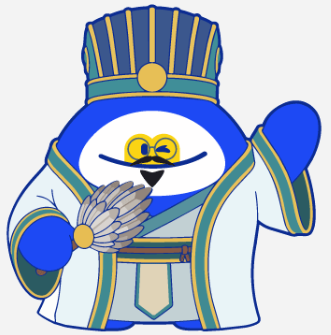
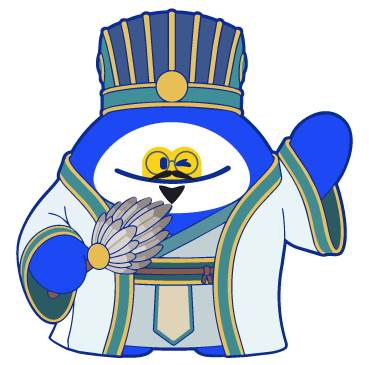
feat: 학습 행동 유형 캐릭터 27종 전체 반영 + 유형명 기획 확정본 동기화
- 「아이글 27가지 학습 행동 유형별 캐릭터」(서비스기획팀 2026-08-26) pptx 에서 27장 추출 → public/images/patterns/{code}.png
- PATTERN_CHARACTERS 27개 코드 전부 매핑 (파일명 = 3축 코드)
- handwritingPatternMatrix 유형명 14건을 pptx 확정명으로 교체
  (bab 표준 정석형 · bba 점검형 확신 풀이 · cbb 신중한 계획형 · acc 성급한 직관/찍기형 등)
- 일괄 과정평가 데모 데이터의 舊 Press 축을 Hesit 축 코드로 정리 (cab · bcb)

Changed region(s): [[0.0, 0.0, 0.997, 1.0], [0.574, 0.3582, 0.6647, 0.4478]]

diff --git a/src/handwritingPatternMatrix.js b/src/handwritingPatternMatrix.js
@@ -12,6 +12,7 @@
  * null 값은 매트릭스 미정의 상태로, UI에서 fallback 규칙 템플릿으로 대체.
  *
  * 참조: handwriting_analysis_spec.md §6.2, 과정평가_prompt.md §5.2
+ * 유형명·캐릭터: 「아이글 27가지 학습 행동 유형별 캐릭터」(서비스기획팀, 2026-08-26) 기준. 캐릭터는 public/images/patterns/{code}.png
  */
 
 export const PATTERN_MATRIX = {
@@ -65,7 +66,7 @@ export const PATTERN_MATRIX = {
     feedback: { High: null, Med: null, Low: null },
   },
   abc: {
-    name: '빠른 흔들림형',
+    name: '불안한 급행 보완형',
     brief: '빠르나 약간의 수정과 잦은 머뭇거림',
     strengths: ['fast_execution'],
     feedback: { High: null, Med: null, Low: null },
@@ -75,19 +76,19 @@ export const PATTERN_MATRIX = {
   // 빠름(a) × 역행(c) — ac*
   // ━━━━━━━━━━━━━━━━━━━━━━━━━━━━━━━━━━━━━━━━━━━
   aca: {
-    name: '빠른 재구성 확신형',
+    name: '산만한 확신형',
     brief: '빠르게 풀며 크게 되돌아가지만 확신 있음',
     strengths: ['fast_execution', 'self_correction'],
     feedback: { High: null, Med: null, Low: null },
   },
   acb: {
-    name: '민첩 대폭수정형',
+    name: '흩어진 속도형',
     brief: '빠르게 풀며 대폭 수정, 자연스러운 흐름',
     strengths: ['fast_execution', 'self_correction'],
     feedback: { High: null, Med: null, Low: null },
   },
   acc: {
-    name: '빠른 혼란형',
+    name: '성급한 직관/찍기형',
     brief: '빠르지만 방향성이 흐트러지고 머뭇거림',
     strengths: ['fast_execution'],
     feedback: { High: null, Med: null, Low: null },
@@ -107,13 +108,13 @@ export const PATTERN_MATRIX = {
     },
   },
   bab: {
-    name: '일관 진행형',
+    name: '표준 정석형',
     brief: '평균적 속도로 순차적이며 자연스러운 흐름',
     strengths: ['sequential_order'],
     feedback: { High: null, Med: null, Low: null },
   },
   bac: {
-    name: '신중 불안형',
+    name: '정석 속 불안형',
     brief: '안정적이나 순차적 진행 중 머뭇거림',
     strengths: ['sequential_order'],
     feedback: { High: null, Med: null, Low: null },
@@ -123,13 +124,13 @@ export const PATTERN_MATRIX = {
   // 보통(b) × 보통(b) — bb*
   // ━━━━━━━━━━━━━━━━━━━━━━━━━━━━━━━━━━━━━━━━━━━
   bba: {
-    name: '차분한 보완형',
+    name: '점검형 확신 풀이',
     brief: '차분한 속도로 필요한 부분 확실히 수정',
     strengths: ['self_correction', 'consistent_flow'],
     feedback: { High: null, Med: null, Low: null },
   },
   bbb: {
-    name: '표준 흐름형',
+    name: '일반 재정비형',
     brief: '평균적 속도·순서·확신도, 무난한 흐름',
     strengths: ['consistent_flow'],
     feedback: { High: null, Med: null, Low: null },
@@ -149,7 +150,7 @@ export const PATTERN_MATRIX = {
   // 보통(b) × 역행(c) — bc*
   // ━━━━━━━━━━━━━━━━━━━━━━━━━━━━━━━━━━━━━━━━━━━
   bca: {
-    name: '능동적 탐색 확신형',
+    name: '능동적 탐색 확신형', // pptx 표기는 「능동적 탐색 확신」— 접미 '형' 누락으로 보고 보정
     brief: '여러 방향을 탐색하며 단호한 흐름으로 해답 도달',
     strengths: ['self_correction'],
     feedback: {
@@ -169,7 +170,7 @@ export const PATTERN_MATRIX = {
     },
   },
   bcc: {
-    name: '혼돈 탐색형',
+    name: '불안한 시행착오형',
     brief: '방향이 흐트러지고 머뭇거림이 잦음',
     strengths: [],
     feedback: { High: null, Med: null, Low: null },
@@ -185,13 +186,13 @@ export const PATTERN_MATRIX = {
     feedback: { High: null, Med: null, Low: null },
   },
   cab: {
-    name: '신중한 재구조화형',
+    name: '신중한 재구조화형', // pptx 표기는 「신중한 재구조화」— 접미 '형' 누락으로 보고 보정
     brief: '천천히 진행하지만 순차적이며 약간의 머뭇거림',
     strengths: ['sequential_order'],
     feedback: { High: null, Med: null, Low: null },
   },
   cac: {
-    name: '조심스러운 탐색형',
+    name: '숙고 정돈 불안형',
     brief: '느리고 순차적이나 잦은 머뭇거림',
     strengths: ['sequential_order'],
     feedback: { High: null, Med: null, Low: null },
@@ -201,20 +202,19 @@ export const PATTERN_MATRIX = {
   // 느림(c) × 보통(b) — cb*
   // ━━━━━━━━━━━━━━━━━━━━━━━━━━━━━━━━━━━━━━━━━━━
   cba: {
-    // [2026-09-21] 기획 확정명 「심사숙고 확신형」 (舊 신중한 보완 확신형). 유형 캐릭터 public/images/patterns/cba.png
     name: '심사숙고 확신형',
     brief: '느리게 진행하며 되돌아가지만 단단히 마무리',
     strengths: ['self_correction'],
     feedback: { High: null, Med: null, Low: null },
   },
   cbb: {
-    name: '느린 자기교정형',
+    name: '신중한 계획형',
     brief: '느리게 진행하며 자연스럽게 수정',
     strengths: ['self_correction'],
     feedback: { High: null, Med: null, Low: null },
   },
   cbc: {
-    name: '깊은 숙고 불안형',
+    name: '불안한 재구조화형',
     brief: '느리고 머뭇거리지만 신중히 진행',
     strengths: [],
     feedback: { High: null, Med: null, Low: null },

diff --git a/src/GradingManagement.jsx b/src/GradingManagement.jsx
@@ -363,7 +363,8 @@ const GradingManagement = ({ activeSubMenu, variant = 'v1' }) => {
         const patterns = [
           {
             processPattern: '신중한 재구조화형',
-            metricsCode: 'Time-c, Coord-a, Press-a',
+            patternCode: 'cab',
+            metricsCode: 'Time-c, Coord-a, Hesit-b',
             gradeLevel: 'Excellent (A)',
             diagnosedPattern: '신중한 재구조화형',
             totalEvaluation: "학생의 풀이 과정을 데이터로 분석한 결과, 이 패턴은 '신중한 재구조화형'으로 진단됩니다. 조합의 공식 유도 과정을 논리적으로 전개하는 과정에서 특정 구간에 깊은 고민의 흔적이 보이나, 결국 이전 수식을 보완하고 논리적 오류를 스스로 바로잡아 완벽한 증명을 완성해냈습니다.",
@@ -373,8 +374,9 @@ const GradingManagement = ({ activeSubMenu, variant = 'v1' }) => {
             contentBottleneckAnalysis: '행동 지표 분석: 전반적으로 필압(Press-a)이 일정하고 강하게 유지되어 개념에 대한 확신이 있음을 보여줍니다.\n\n병목 구간 진단: 풀이 중간, 두 분수식을 통분하여 하나의 식으로 합치는 과정 전후로 약 2.5초 이상의 긴 멈춤이 감지되었습니다.'
           },
           {
-            processPattern: 'c-c-b 시행착오 탐색형',
-            metricsCode: 'Time-c, Coord-c, Press-b',
+            processPattern: '시행착오 탐색형',
+            patternCode: 'bcb',
+            metricsCode: 'Time-b, Coord-c, Hesit-b',
             gradeLevel: 'Good (B)',
             diagnosedPattern: '시행착오 탐색형',
             totalEvaluation: '여러 번 식을 다시 세우고 오류를 수정하려는 끈기 있는 태도를 보였으나, 개념 적용 단계에서 인지적 과부하가 발생한 패턴입니다.',
@@ -391,6 +393,7 @@ const GradingManagement = ({ activeSubMenu, variant = 'v1' }) => {
             return {
               ...s,
               handwritingEvaluation: {
+                patternCode: p.patternCode,
                 systemDataLog: {
                   processPattern: p.processPattern,
                   metricsCode: p.metricsCode,

diff --git a/src/GradingReviewModal.jsx b/src/GradingReviewModal.jsx
@@ -18,10 +18,12 @@ const ANSWER_SHEET_IMG = `${import.meta.env.BASE_URL}images/answer-sheet-sample.
 
 /* ── 학습 행동 패턴(3축 코드) 캐릭터 ──
  *   27개 유형마다 캐릭터가 한 장씩 붙는다. 학생 리포트(결과 발송·내보내기)에 같은 캐릭터가 실리므로
- *   교사 화면에서도 리포트에 보일 모습 그대로 보여 준다. 아직 그림이 없는 유형은 코드 배지로 대신한다. */
-export const PATTERN_CHARACTERS = {
-    cba: `${import.meta.env.BASE_URL}images/patterns/cba.png`,
-};
+ *   교사 화면에서도 리포트에 보일 모습 그대로 보여 준다. 그림이 없는 코드는 코드 배지로 폴백한다. */
+/* 27개 전부 — 「아이글 27가지 학습 행동 유형별 캐릭터」(2026-08-26) pptx 에서 추출. 파일명 = 3축 코드 */
+export const PATTERN_CHARACTERS = Object.fromEntries(
+    ['aaa', 'aab', 'aac', 'aba', 'abb', 'abc', 'aca', 'acb', 'acc', 'baa', 'bab', 'bac', 'bba', 'bbb', 'bbc', 'bca', 'bcb', 'bcc', 'caa', 'cab', 'cac', 'cba', 'cbb', 'cbc', 'cca', 'ccb', 'ccc']
+        .map((code) => [code, `${import.meta.env.BASE_URL}images/patterns/${code}.png`])
+);
 /* "Time-c, Coord-b, Hesit-a" → "cba" */
 export const patternCodeOf = (metricsCode = '') => {
     const m = /Time-([abc]).*Coord-([abc]).*Hesit-([abc])/i.exec(metricsCode);
